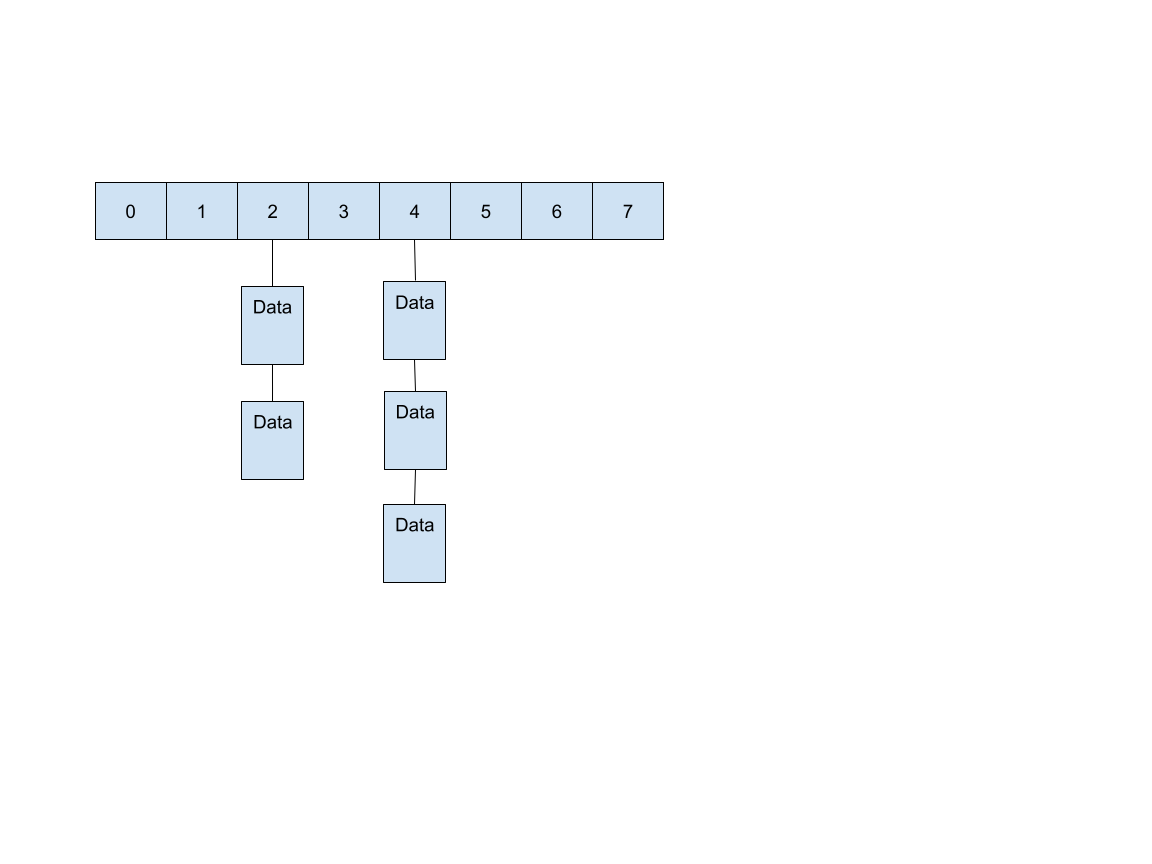
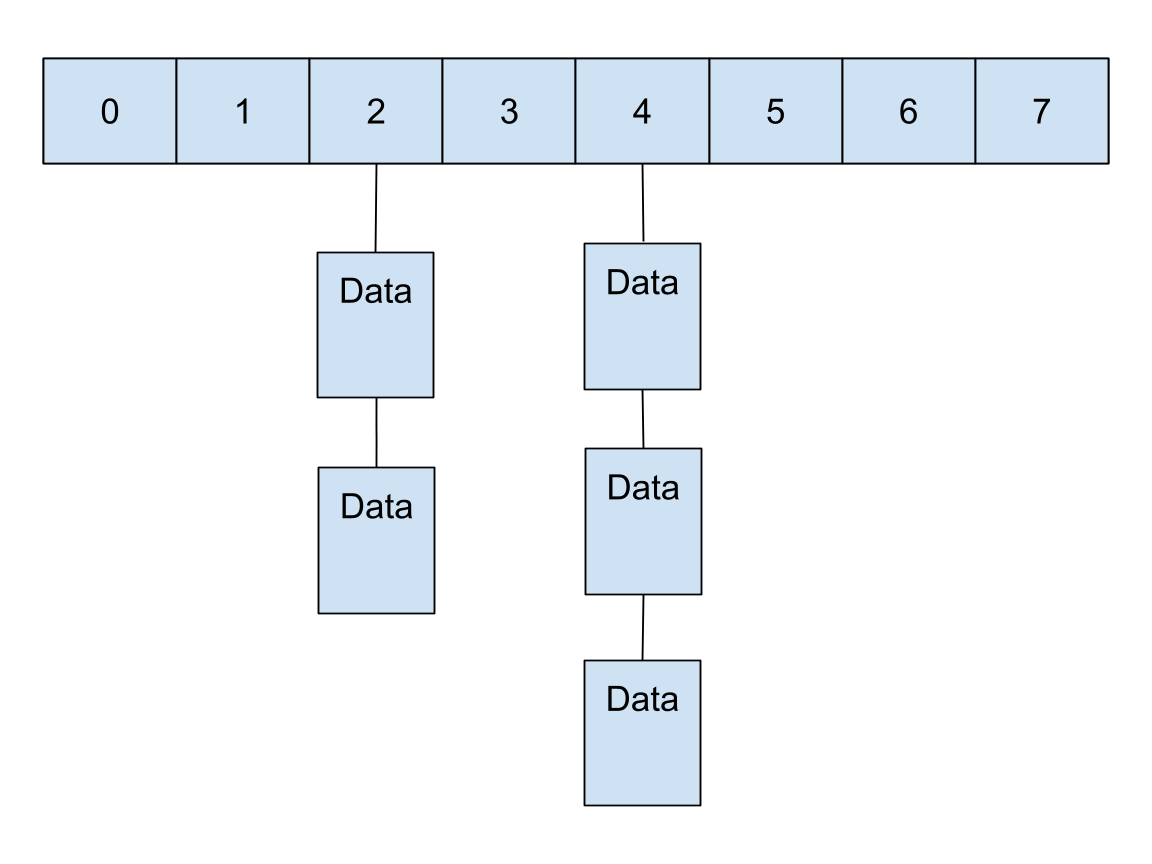
updates images

Changed region(s): [[0.0312, 0.0625, 0.9688, 0.7188], [0.5, 0.5, 0.625, 0.7188], [0.5, 0.75, 0.625, 0.9375]]

diff --git a/src/blog/posts/intrusive-hash-table-in-c/IntrusiveHashTable.vue b/src/blog/posts/intrusive-hash-table-in-c/IntrusiveHashTable.vue
@@ -4,7 +4,7 @@
       <h1>Intrusive Hash Tables in C</h1>
       <p class="post-intro">
         I wanted to write a blog post about implementing a lock table because I thought it would help
-        me understand them better - I'm currently tracking down some bugs in
+        me debug some of my problems - I'm currently tracking down some bugs in
         numstore with my lock table - particularly upgrading locks - but I realized there's a lot of boilerplate I need to walk through
         first. I always enjoy stepping back and re-examining data structures I wrote previously.
         Reloading old code into your head is almost always worth it. So let's talk about hash tables
